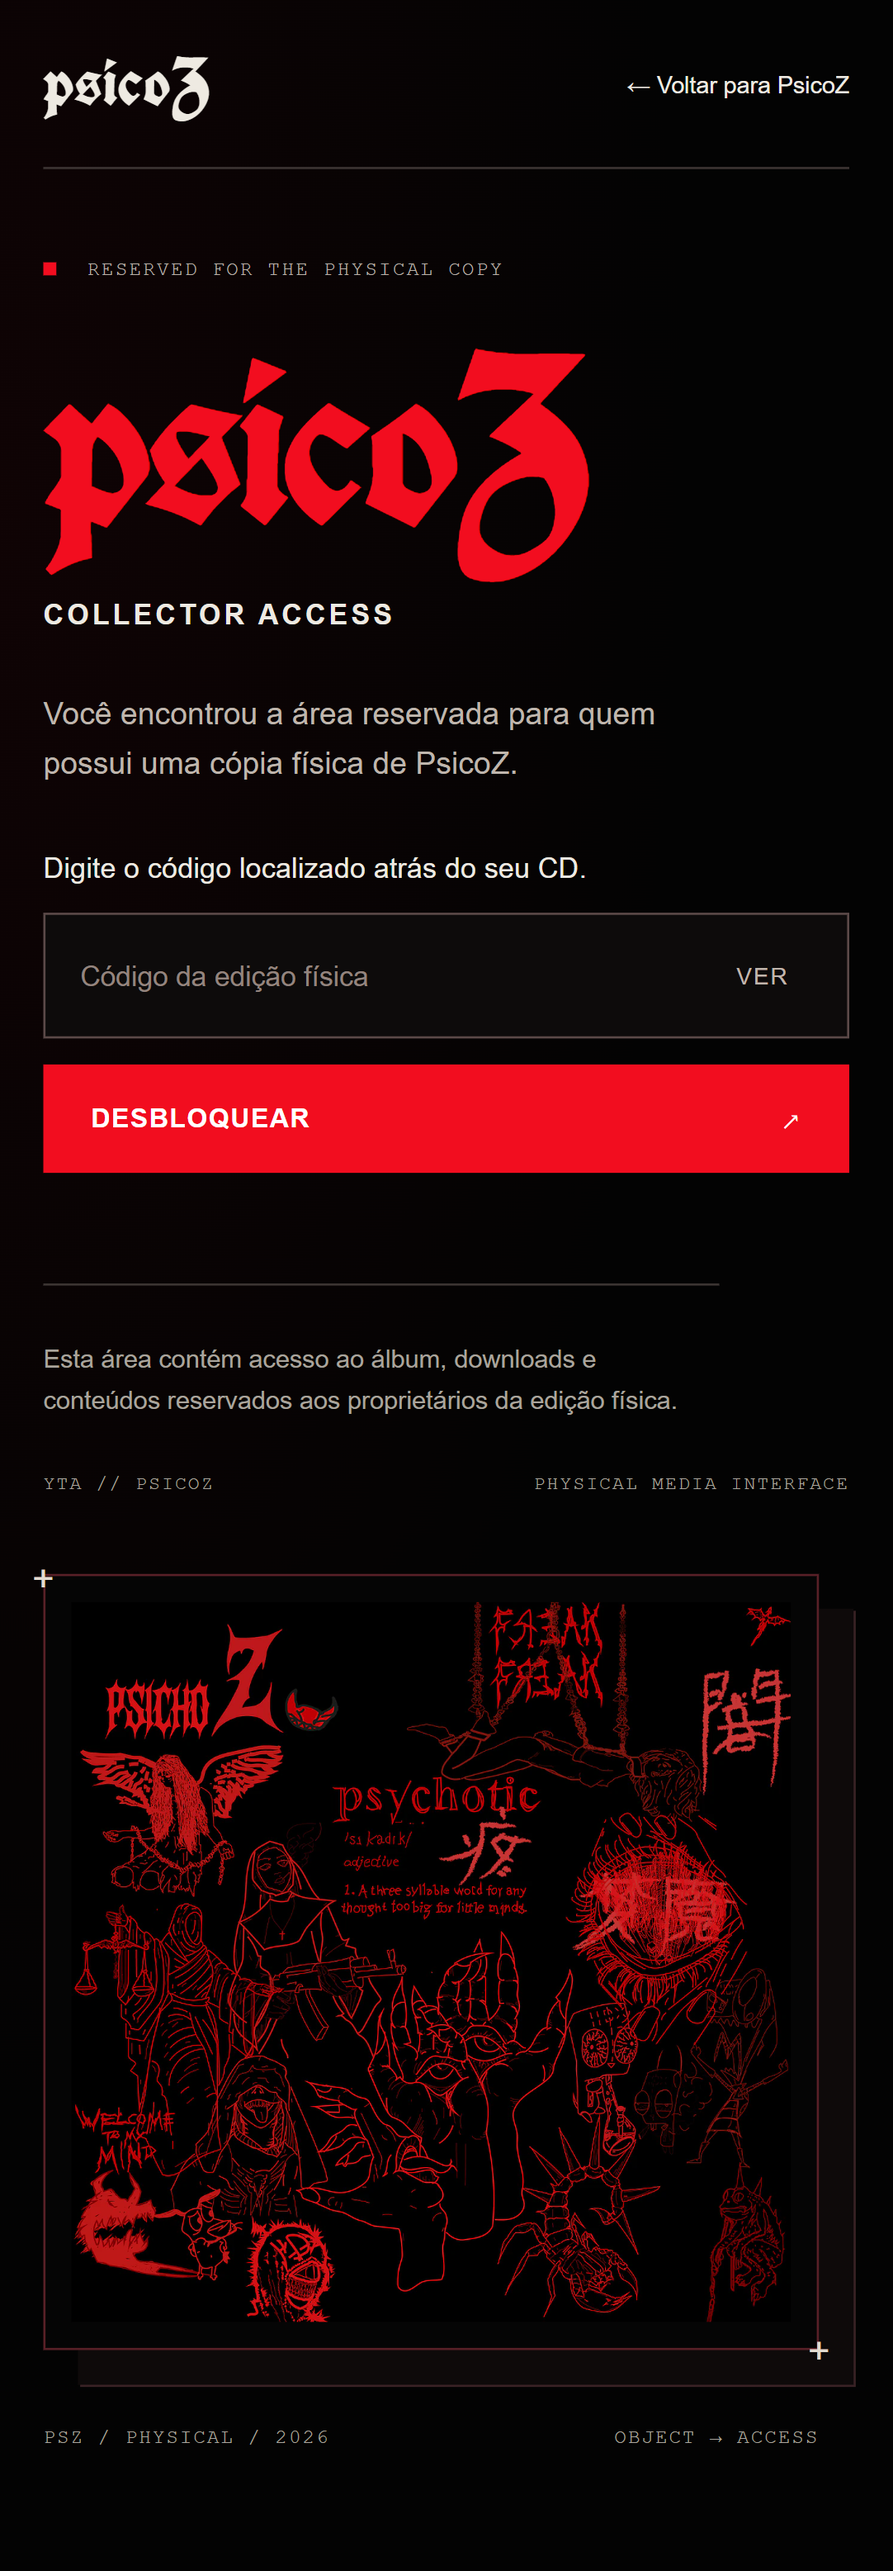
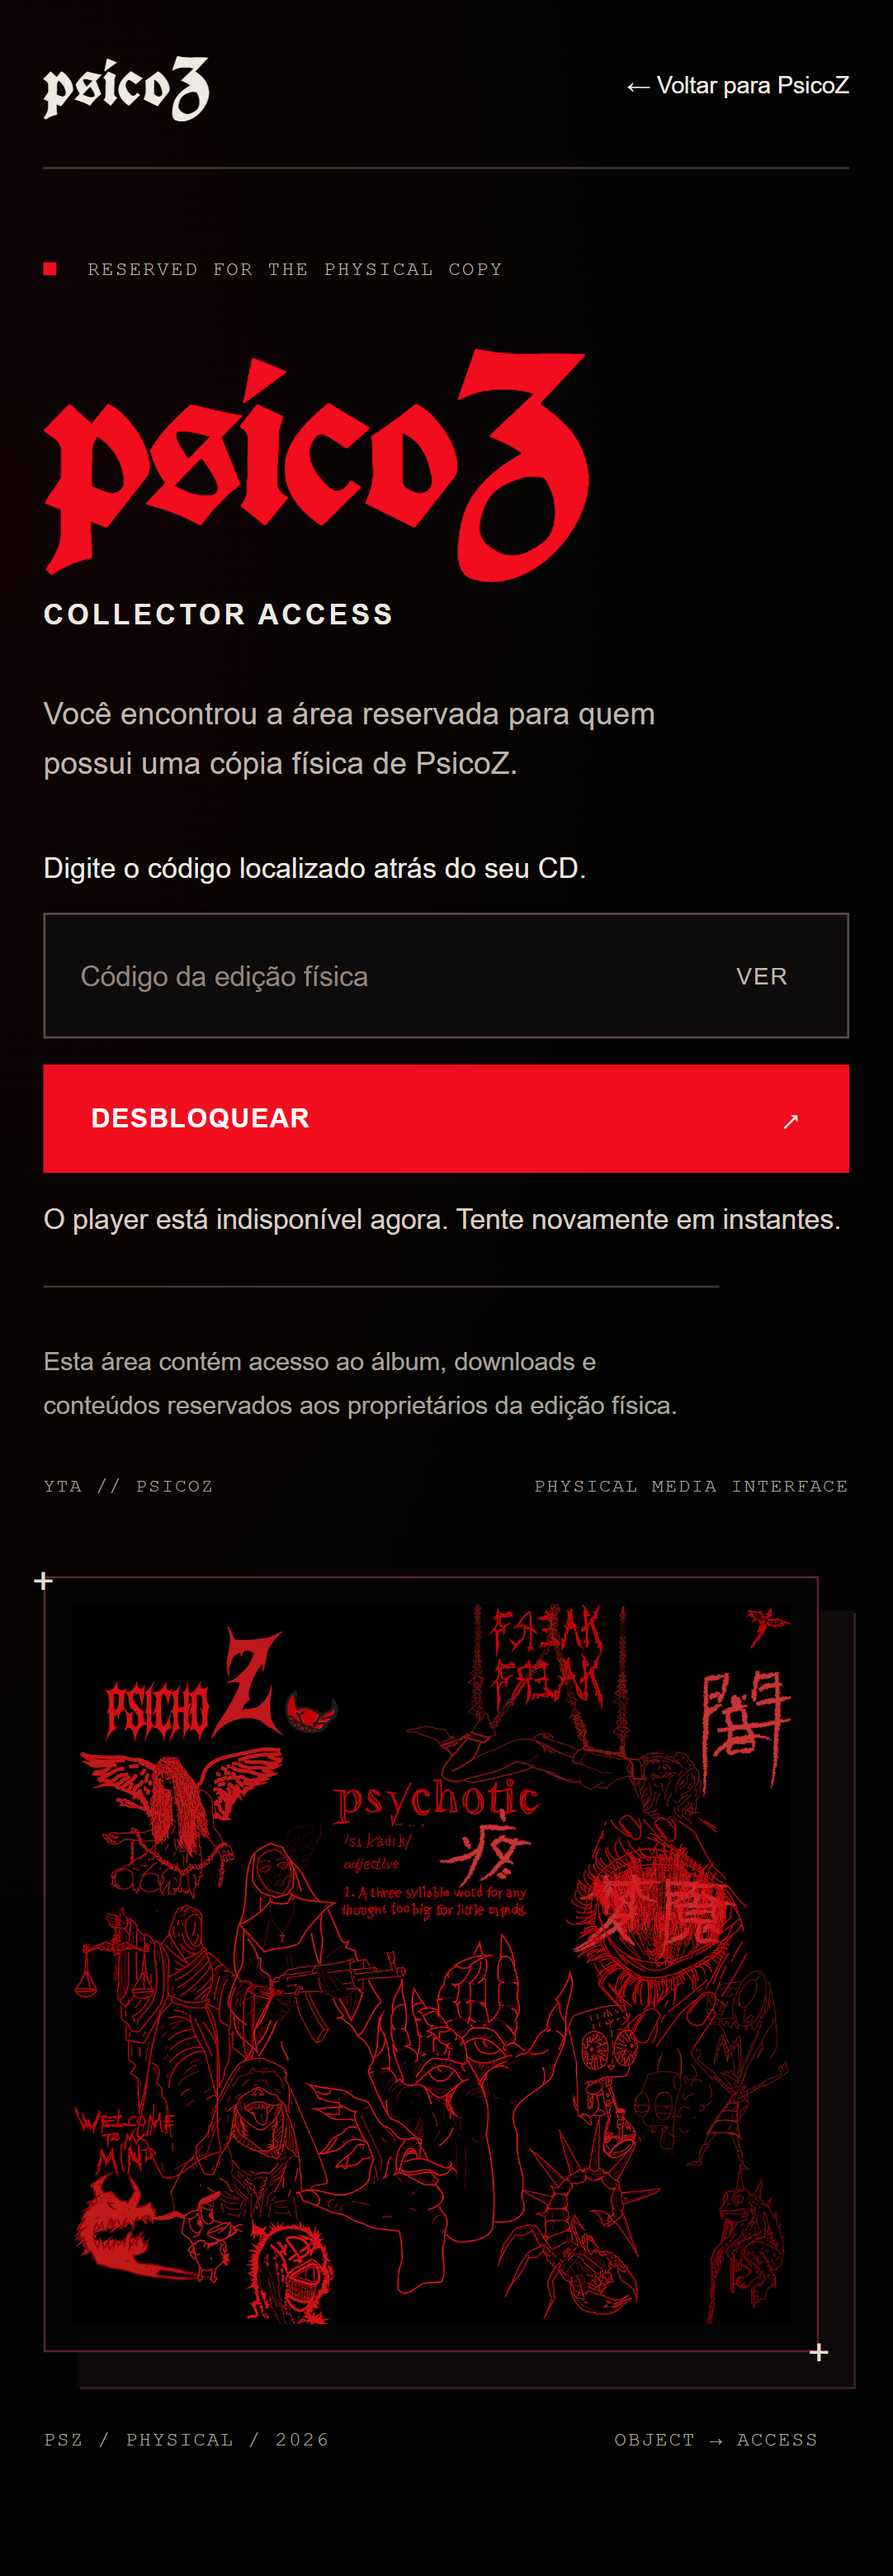
Allow CD player before release downloads

diff --git a/src/cd/page.ts b/src/cd/page.ts
@@ -7,8 +7,6 @@ import { createAlbumPlayer } from './player';
 
 const main = document.querySelector<HTMLElement>('#cd-main')!;
 let disposePlayer: (() => void) | undefined;
-let authenticated = false;
-let checking = false;
 const art = `<div class="cd-art-frame"><img src="${escapeHTML(assetUrl('assets/cover-dark-1200.webp'))}" srcset="${escapeHTML(assetUrl('assets/cover-dark-640.webp'))} 640w, ${escapeHTML(assetUrl('assets/cover-dark-1200.webp'))} 1200w" sizes="(max-width: 700px) 85vw, 44vw" width="1200" height="1200" fetchpriority="high" alt="Capa de psicoZ: desenhos vermelhos de olhos, mãos e correntes sobre preto." /><span class="cd-art-fallback" hidden>psicoZ<br><small>Arte indisponível no momento</small></span></div>`;
 function prepareImages() {
   main.querySelectorAll<HTMLImageElement>('.cd-art-frame img').forEach((image) => {
@@ -18,7 +16,7 @@ function prepareImages() {
   });
 }
 function showLogin(message = '', focus = false) {
-  authenticated = false; disposePlayer?.(); disposePlayer = undefined;
+  disposePlayer?.(); disposePlayer = undefined;
   main.innerHTML = `<section class="cd-access" aria-labelledby="cd-access-title"><figure class="cd-access-art">${art}<figcaption><span>PSZ / PHYSICAL / 2026</span><span>OBJECT → ACCESS</span></figcaption><p class="cd-art-note">Uma cópia física.<br>Outra parte do universo.</p></figure><div class="cd-access-copy"><p class="section-label"><span class="cd-signal" aria-hidden="true"></span> RESERVED FOR THE PHYSICAL COPY</p><h1 id="cd-access-title">psicoZ</h1><p class="cd-access-subtitle">COLLECTOR ACCESS</p><p class="cd-access-lead">Você encontrou a área reservada para quem possui uma cópia física de PsicoZ.</p><form id="cd-login"><label for="cd-code">Digite o código localizado atrás do seu CD.</label><div class="cd-code-input"><input id="cd-code" name="code" type="password" autocomplete="current-password" autocapitalize="none" spellcheck="false" maxlength="128" required aria-describedby="cd-access-feedback" placeholder="Código da edição física" /><button type="button" class="cd-reveal" aria-label="Mostrar código" aria-pressed="false">VER</button></div><button class="button primary cd-unlock" type="submit">DESBLOQUEAR <span aria-hidden="true">↗</span></button><p id="cd-access-feedback" class="cd-feedback" role="status">${escapeHTML(message)}</p></form><p class="small-note cd-access-note">Esta área contém acesso ao álbum, downloads e conteúdos reservados aos proprietários da edição física.</p><div class="cd-access-stamp"><span>YTA // PSICOZ</span><span>PHYSICAL MEDIA INTERFACE</span></div></div></section>`;
   prepareImages();
   const form = main.querySelector<HTMLFormElement>('form')!;
@@ -53,7 +51,6 @@ function showLogin(message = '', focus = false) {
 }
 async function showCollector() {
   const catalog = await cdRequest<CollectorCatalog>('/api/cd-catalog');
-  authenticated = true;
   main.innerHTML = `<section class="cd-intro" aria-labelledby="cd-title"><div class="cd-intro-copy"><p class="section-label">ACCESS GRANTED / PHYSICAL EDITION</p><h1 id="cd-title" tabindex="-1">psicoZ</h1><p class="cd-access-subtitle">Obrigado por fazer parte disso.</p><p>Se você chegou até aqui, uma cópia física de PsicoZ chegou até você.</p><p>Esse disco não termina no arquivo. Ele continua no papel, nos desenhos, no objeto que agora está nas suas mãos. Esta parte do projeto foi feita para acompanhar essa cópia.</p><p>Coloca pra tocar. Guarda o que fizer sentido.<br>Volta quando quiser.</p><span class="cd-signature">— YTA</span><a class="text-link" href="#cd-player">OUVIR O DISCO <span aria-hidden="true">↓</span></a></div><figure class="cd-collector-art">${art}<figcaption><span>PSICOZ // PHYSICAL COPY</span><span>15 POSIÇÕES</span></figcaption></figure></section><section id="cd-player" class="cd-player" aria-label="Player do álbum"></section><section class="cd-physical" aria-labelledby="cd-physical-title"><p class="section-label">O OBJETO TAMBÉM FAZ PARTE.</p><div><h2 id="cd-physical-title">Pra ter nas mãos.</h2><p>Em meio a tanto arquivo, stream e algoritmo, essa edição existe para devolver algo físico ao processo. O CD, a arte, o NFC e esta página são partes da mesma experiência.</p><p>A música atravessa tudo isso. O objeto fica com você.</p></div></section><footer class="cd-footer"><a class="text-link" href="/">← Voltar para PsicoZ</a><span class="cd-code">YTA // PSZ // PHYSICAL</span><button class="text-link cd-logout">Sair desta edição</button><p class="cd-feedback" role="status" id="cd-session-feedback"></p></footer>`;
   prepareImages();
   disposePlayer?.();
@@ -65,17 +62,6 @@ async function showCollector() {
     catch { main.querySelector('#cd-session-feedback')!.textContent = 'Não foi possível sair. Tente novamente.'; button.disabled = false; }
   });
 }
-async function checkSession(initial = false) {
-  if (checking || (!initial && !authenticated)) return;
-  checking = true;
-  try { await cdRequest('/api/cd-session'); if (initial) await showCollector(); }
-  catch (error) {
-    if (initial || (error instanceof CDAPIError && error.status === 401)) showLogin(error instanceof CDAPIError && error.status === 401 ? (initial ? '' : 'Sua sessão expirou. Digite o código do CD novamente.') : 'O acesso está indisponível agora. Tente novamente em instantes.');
-  } finally { checking = false; }
-}
-document.addEventListener('visibilitychange', () => { if (!document.hidden) void checkSession(); });
-window.addEventListener('focus', () => void checkSession());
-setInterval(() => { if (!document.hidden) void checkSession(); }, 5 * 60 * 1000);
 window.addEventListener('pagehide', () => { disposePlayer?.(); });
 window.addEventListener('pageshow', (event) => { if (event.persisted) location.reload(); });
-void checkSession(true);
+showCollector().catch((error) => showLogin(error instanceof CDAPIError && error.status === 503 ? 'O player está indisponível agora. Tente novamente em instantes.' : 'Não foi possível carregar o player agora. Tente novamente em instantes.'));

diff --git a/tests/cd-e2e/collector.spec.ts b/tests/cd-e2e/collector.spec.ts
@@ -31,30 +31,33 @@ async function snapshot(page: Page, name: string, fullPage = true) {
   await page.screenshot({ path: `docs/screenshots/cd/${name}.png`, fullPage });
 }
 
-test('real login, denied code, secure persistent session, pending catalog and logout', async ({ page, context }, info) => {
+test('public player opens directly while downloads remain locked before release', async ({ page }, info) => {
   await page.goto('/cd');
-  await expect(page.getByRole('heading', { name: 'psicoZ', exact: true })).toBeVisible();
-  await snapshot(page, `access-${info.project.name}`);
-  await page.getByLabel('Digite o código').fill('wrong-code');
-  await page.getByRole('button', { name: /DESBLOQUEAR/u }).click();
-  await expect(page.locator('#cd-access-feedback')).toContainText('ACCESS DENIED');
-  await page.getByLabel('Digite o código').fill('collector-e2e-only');
-  await page.keyboard.press('Enter');
   await expect(page.locator('#cd-title')).toBeVisible();
   await expect(page.locator('.cd-track')).toHaveCount(15);
   await expect(page.locator('.cd-track [data-select]:disabled')).toHaveCount(15);
   await expect(page.locator('[data-album-download]')).toBeDisabled();
   await expect(page.locator('audio')).toHaveCount(0);
   expect(await page.evaluate(() => localStorage.getItem('psicoz:progress'))).toBeNull();
+  await snapshot(page, `collector-pending-${info.project.name}`);
+  expect((await page.request.get('/api/cd-download/album')).status()).toBe(401);
+});
+
+test('real code access still creates a secure private session', async ({ page, context }, info) => {
+  await page.route('**/api/cd-catalog', (route) => route.fulfill({ status: 503, json: { error: 'unavailable' } }));
+  await page.goto('/cd');
+  await expect(page.locator('#cd-login')).toBeVisible();
+  await snapshot(page, `access-${info.project.name}`);
+  await page.getByLabel('Digite o código').fill('wrong-code');
+  await page.getByRole('button', { name: /DESBLOQUEAR/u }).click();
+  await expect(page.locator('#cd-access-feedback')).toContainText('ACCESS DENIED');
+  await page.unroute('**/api/cd-catalog');
+  await page.getByLabel('Digite o código').fill('collector-e2e-only');
+  await page.keyboard.press('Enter');
+  await expect(page.locator('#cd-title')).toBeVisible();
   const cookie = (await context.cookies()).find((cookie) => cookie.name === '__Host-psicoz_cd')!;
   expect(cookie.httpOnly).toBe(true); expect(cookie.secure).toBe(true); expect(cookie.sameSite).toBe('Lax');
   expect(await page.evaluate(() => document.cookie)).not.toContain('__Host-psicoz_cd');
-  await page.reload(); await expect(page.locator('#cd-title')).toBeVisible();
-  await snapshot(page, `collector-pending-${info.project.name}`);
-  await page.getByRole('button', { name: 'Sair desta edição' }).click();
-  await expect(page.locator('#cd-login')).toBeVisible();
-  expect((await page.request.get('/api/cd-download/album')).status()).toBe(401);
-  await page.reload(); await expect(page.locator('#cd-login')).toBeVisible();
 });
 
 test('only the active track loads; actual waveform, seek, pause, mini player and playlist end', async ({ page, isMobile }, info) => {
@@ -152,11 +155,6 @@ test('responsive widths, reduced motion, missing cover, and keyboard code reveal
   await page.route('**/assets/cover-dark-*.webp', (route) => route.abort());
   await page.goto('/cd');
   await expect(page.locator('.cd-art-fallback')).toBeVisible();
-  const input = page.getByLabel('Digite o código');
-  await input.fill('example'); await input.focus(); await page.keyboard.press('Tab');
-  await expect(page.getByRole('button', { name: 'Mostrar código' })).toBeFocused();
-  await page.keyboard.press('Enter'); await expect(input).toHaveAttribute('type', 'text');
-  await page.getByRole('button', { name: 'Ocultar código' }).click(); await expect(input).toHaveAttribute('type', 'password');
   for (const width of [375, 390, 430, 768, 1440]) {
     await page.setViewportSize({ width, height: 900 });
     expect(await page.evaluate(() => document.documentElement.scrollWidth <= innerWidth)).toBe(true);
@@ -165,7 +163,7 @@ test('responsive widths, reduced motion, missing cover, and keyboard code reveal
 });
 
 test('API unavailable and rate limited states allow another attempt', async ({ page }) => {
-  await page.route('**/api/cd-session', (route) => route.fulfill({ status: 503 }));
+  await page.route('**/api/cd-catalog', (route) => route.fulfill({ status: 503 }));
   await page.goto('/cd'); await expect(page.locator('#cd-access-feedback')).toContainText('indisponível');
   await page.route('**/api/cd-access', (route) => route.fulfill({ status: 429 }));
   await page.getByLabel('Digite o código').fill('example'); await page.locator('.cd-unlock').click();

diff --git a/server/cd/api.ts b/server/cd/api.ts
@@ -59,9 +59,10 @@ export async function handleCDRequest(request: Request, env: CDEnv): Promise<Res
     if (mutation && request.method !== 'POST') return json({ error: 'method' }, 405, { Allow: 'POST' });
     if (!mutation && !['GET', 'HEAD'].includes(request.method)) return json({ error: 'method' }, 405, { Allow: 'GET, HEAD' });
     if (mutation && (request.headers.get('Origin') !== url.origin || request.headers.get('Sec-Fetch-Site') === 'cross-site')) return json({ error: 'origin' }, 403);
+    if (route === '/api/cd-catalog') return json(getCDCatalog());
     if (route === '/api/cd-logout') return json({ authenticated: false }, 200, { 'Set-Cookie': sessionCookie('', 0) });
-    if (!isConfigured(env)) return json({ error: 'unavailable' }, 503);
     if (route === '/api/cd-access') {
+      if (!isConfigured(env)) return json({ error: 'unavailable' }, 503);
       if (!allowed(request)) return json({ error: 'rate_limit' }, 429, { 'Retry-After': '60' });
       const code = await boundedCode(request);
       if (!code) return json({ error: 'invalid_request' }, 400);
@@ -69,13 +70,19 @@ export async function handleCDRequest(request: Request, env: CDEnv): Promise<Res
       if (!identity) return json({ error: 'invalid_code' }, 401);
       return json({ authenticated: true, edition: identity.edition }, 200, { 'Set-Cookie': sessionCookie(await createSession(identity, env)) });
     }
-    const identity = await readSession(request, env);
-    if (!identity) return json({ authenticated: false, error: 'session_expired' }, 401);
-    if (route === '/api/cd-session') return json({ authenticated: true, edition: identity.edition });
-    if (route === '/api/cd-catalog') return json(getCDCatalog());
+    if (route === '/api/cd-session') {
+      if (!isConfigured(env)) return json({ error: 'unavailable' }, 503);
+      const identity = await readSession(request, env);
+      return identity ? json({ authenticated: true, edition: identity.edition }) : json({ authenticated: false, error: 'session_expired' }, 401);
+    }
     const match = /^\/api\/cd-(stream|download|peaks)\/(track-\d{2}|album)$/u.exec(route);
     if (!match) return json({ error: 'not_found' }, 404);
     const [, kind, id] = match;
+    if (kind === 'download') {
+      if (!isConfigured(env)) return json({ error: 'unavailable' }, 503);
+      const identity = await readSession(request, env);
+      if (!identity) return json({ authenticated: false, error: 'session_expired' }, 401);
+    }
     if (kind === 'download' && !downloadsAreAvailable()) return json({ error: 'release_pending', availableAt: downloadsLockedUntil() }, 403);
     const file = id === 'album' ? (kind === 'download' ? cdAlbum : null) : cdFiles[id]?.[kind as 'stream' | 'download' | 'peaks'];
     if (!file) return json({ error: 'not_published' }, 404);

diff --git a/tests/unit/cd-api.test.ts b/tests/unit/cd-api.test.ts
@@ -54,13 +54,20 @@ describe('collector session and access boundary', () => {
     for (let i = 0; i < 11; i++) statuses.push((await handleCDRequest(request('/api/cd-access', 'POST', '{"code":"wrong"}', { 'CF-Connecting-IP': 'rate-test' }), env)).status);
     expect(statuses.slice(0, 10)).toEqual(Array(10).fill(401)); expect(statuses[10]).toBe(429);
   });
-  it('protects GET and HEAD for every file route before consulting storage', async () => {
+  it('keeps the player public while protecting downloads before consulting storage', async () => {
     const head = vi.fn();
-    for (const method of ['GET', 'HEAD']) for (const path of ['/api/cd-catalog', '/api/cd-stream/track-01', '/api/cd-download/track-01', '/api/cd-download/album', '/api/cd-peaks/track-01']) expect((await handleCDRequest(request(path, method), { ...env, CD_BUCKET: { head, get: vi.fn() } })).status).toBe(401);
-    expect(head).not.toHaveBeenCalled();
+    const get = vi.fn();
+    const fileEnv = { ...env, CD_BUCKET: { head, get } };
+    for (const method of ['GET', 'HEAD']) {
+      expect((await handleCDRequest(request('/api/cd-catalog', method), fileEnv)).status).toBe(200);
+      for (const path of ['/api/cd-stream/track-01', '/api/cd-peaks/track-01']) expect((await handleCDRequest(request(path, method), fileEnv)).status).toBe(404);
+      for (const path of ['/api/cd-download/track-01', '/api/cd-download/album']) expect((await handleCDRequest(request(path, method), fileEnv)).status).toBe(401);
+    }
+    expect(head).toHaveBeenCalledTimes(4);
+    expect(get).not.toHaveBeenCalled();
   });
   it('exposes 14 supplied recordings and a pending 15th slot without disclosing object keys', async () => {
-    const response = await handleCDRequest(request('/api/cd-catalog', 'GET', undefined, { Cookie: await cookie() }), env);
+    const response = await handleCDRequest(request('/api/cd-catalog'), env);
     const catalog = await response.json();
     expect(catalog.tracks).toHaveLength(15); expect(catalog.tracks[14].title).toBeNull();
     for (const track of catalog.tracks.slice(0, 14)) {
